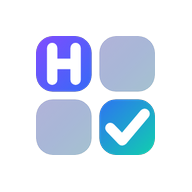
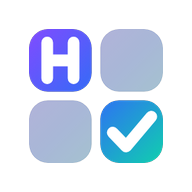
알림 아이콘 70%, 로그인 화면은 계정 설정 대신 기본 테마(자동)를 따르도록
Claude-Session: https://claude.ai/code/session_01B82UywTETwewTykhEM5Uby

Changed region(s): [[0.125, 0.125, 0.875, 0.875]]

diff --git a/app.js b/app.js
@@ -238,7 +238,8 @@
   function applyPf() {
     normPf();
     const h = document.documentElement;
-    if (PF.theme === 'auto') h.removeAttribute('data-theme'); else h.setAttribute('data-theme', PF.theme);
+    const th = S.ready && S.cloudAvail && !S.user && !S.guest ? PF_DEF.theme : PF.theme; // 로그인 화면은 어느 계정 것도 아니라서 기본 설정을 따라요
+    if (th === 'auto') h.removeAttribute('data-theme'); else h.setAttribute('data-theme', th);
     h.style.setProperty('--wa', PF.opacity + '%');
     h.classList.toggle('noanim', PF.anim === false);
     const FS = { xs: 10, m: 14, l: 16, xl: 19 }, LH = [[1.2, 0], [1.3, 1], [1.4, 1], [1.55, 2], [1.75, 3]];
@@ -1155,7 +1156,7 @@
   let loginWinOn = false;
   function syncLoginWin() {
     const on = needLogin();
-    document.body.classList.toggle('loginmode', on);
+    if (document.body.classList.contains('loginmode') !== on) { document.body.classList.toggle('loginmode', on); applyPf(); } // 로그인 화면 ↔ 앱을 오갈 때 테마 다시 적용
     if (!on) { S.lgT0 = null; S.lgOut = false; S.lgFaded = 0; } // 로그인 화면을 벗어나면 다음에 다시 처음부터
     const api = window.hagisiroWidget;
     if (api && api.loginMode && on !== loginWinOn) { loginWinOn = on; api.loginMode(on); }

diff --git a/sw.js b/sw.js
@@ -1,6 +1,6 @@
 // HAGISIRO 서비스워커 — 앱 껍데기를 캐시해서 오프라인에서도 열리게 함
 // (데이터 자체는 Firestore가 기기에 따로 캐시해요)
-const CACHE = 'hagisiro-v519';
+const CACHE = 'hagisiro-v520';
 const SHELL = ['./', 'index.html', 'style.css', 'app.js', 'parser.js', 'lunar.js', 'cloud.js', 'qr.js', 'config.js', 'manifest.json', 'book.html', 'book.js', 'book.css', 'icons/icon.svg', 'icons/icon-192.png', 'icons/notif-192.png', 'fonts/SUITE-Variable.woff2'];
 
 self.addEventListener('install', (e) => {
